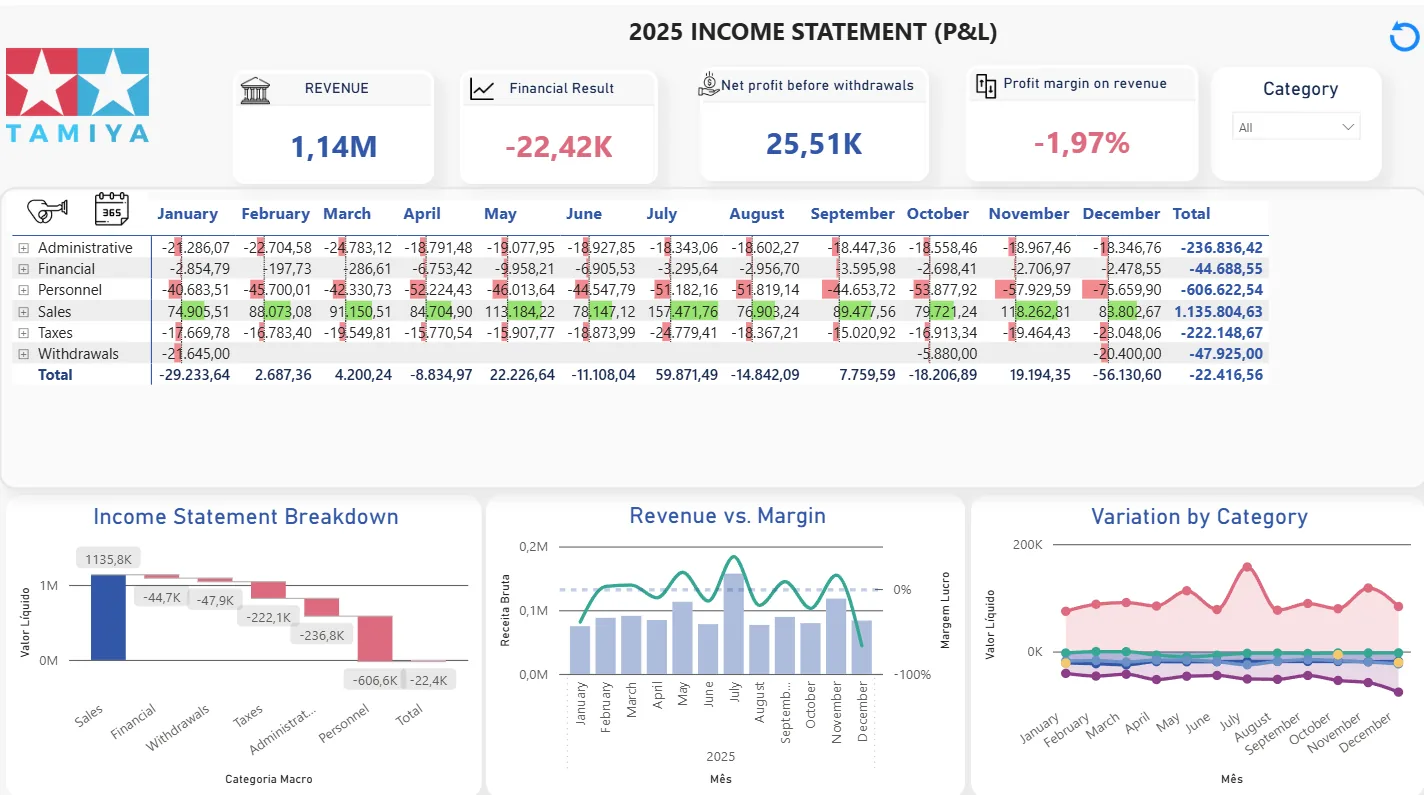
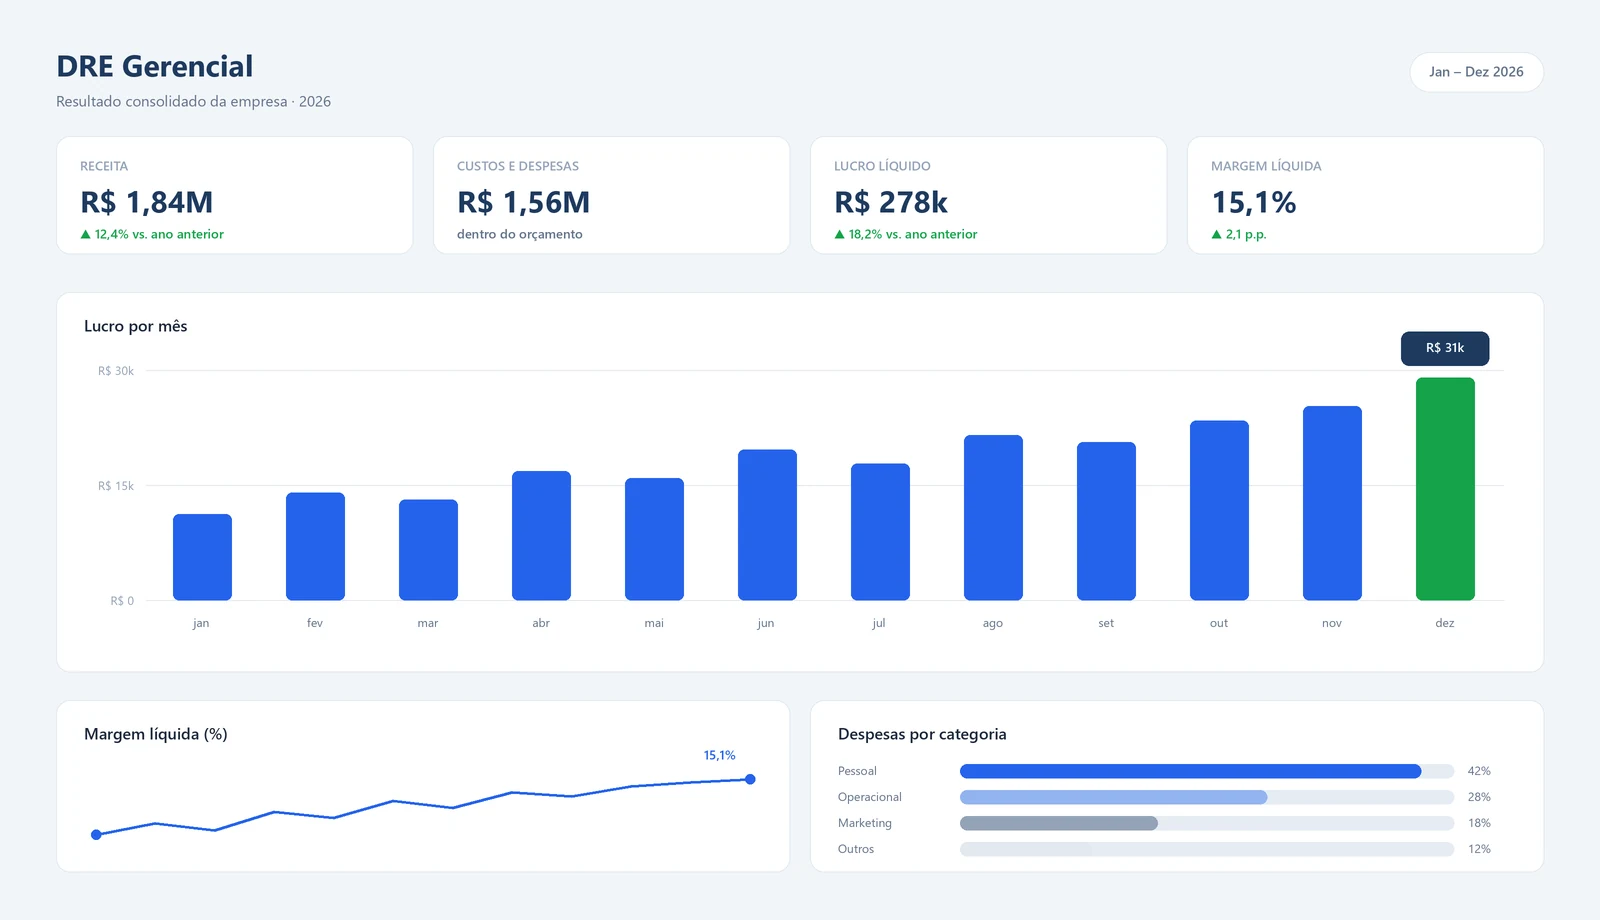
v1: dashboards ilustrativos proprios no showcase
Substitui os prints de projetos (em ingles e densos) por tres
mockups desenhados em PIL: DRE, fluxo de caixa e precificacao.
PT-BR, paleta do site, poucos numeros. Alt/hint viram ilustracao
com dados ficticios. 120KB no total.

diff --git a/index.html b/index.html
@@ -285,21 +285,21 @@
                     <button class="showcase-tab active" role="tab" aria-selected="true"
                         data-img="img/exemplos/dre.webp"
                         data-title="DRE Gerencial"
-                        data-alt="Dashboard de DRE gerencial em Power BI: receita, resultado e margem mês a mês">
+                        data-alt="Ilustração de dashboard de DRE gerencial: receita, lucro e margem mês a mês">
                         <strong>DRE Gerencial</strong>
                         <span>Resultado mês a mês, margem e quebra por categoria</span>
                     </button>
                     <button class="showcase-tab" role="tab" aria-selected="false"
                         data-img="img/exemplos/fluxo.webp"
                         data-title="Fluxo de Caixa & Projeção"
-                        data-alt="Dashboard de fluxo de caixa projetado: dias até quebra de caixa e previsto versus realizado">
+                        data-alt="Ilustração de dashboard de fluxo de caixa: saldo projetado, dias de caixa e compromissos">
                         <strong>Fluxo de Caixa &amp; Projeção</strong>
                         <span>Quantos dias de caixa você tem e o forecast diário</span>
                     </button>
                     <button class="showcase-tab" role="tab" aria-selected="false"
                         data-img="img/exemplos/precificacao.webp"
                         data-title="Simulador de Precificação"
-                        data-alt="Simulador de precificação com elasticidade-preço: impacto de cenários de preço na receita">
+                        data-alt="Ilustração de simulador de precificação: receita projetada por cenário de preço">
                         <strong>Simulador de Precificação</strong>
                         <span>E se o preço mudar? Impacto direto na receita projetada</span>
                     </button>
@@ -312,10 +312,10 @@
                             <em id="frameTitle">DRE Gerencial</em>
                         </div>
                         <a id="showcaseLink" href="img/exemplos/dre.webp" target="_blank" rel="noopener" title="Ampliar">
-                            <img id="showcaseImg" src="img/exemplos/dre.webp" alt="Dashboard de DRE gerencial em Power BI: receita, resultado e margem mês a mês">
+                            <img id="showcaseImg" src="img/exemplos/dre.webp" alt="Ilustração de dashboard de DRE gerencial: receita, lucro e margem mês a mês">
                         </a>
                     </div>
-                    <p class="showcase-hint">Clique na imagem para ampliar &nbsp;·&nbsp; dados de demonstração</p>
+                    <p class="showcase-hint">Clique na imagem para ampliar &nbsp;·&nbsp; ilustrações com dados fictícios</p>
                 </div>
             </div>
         </div>
